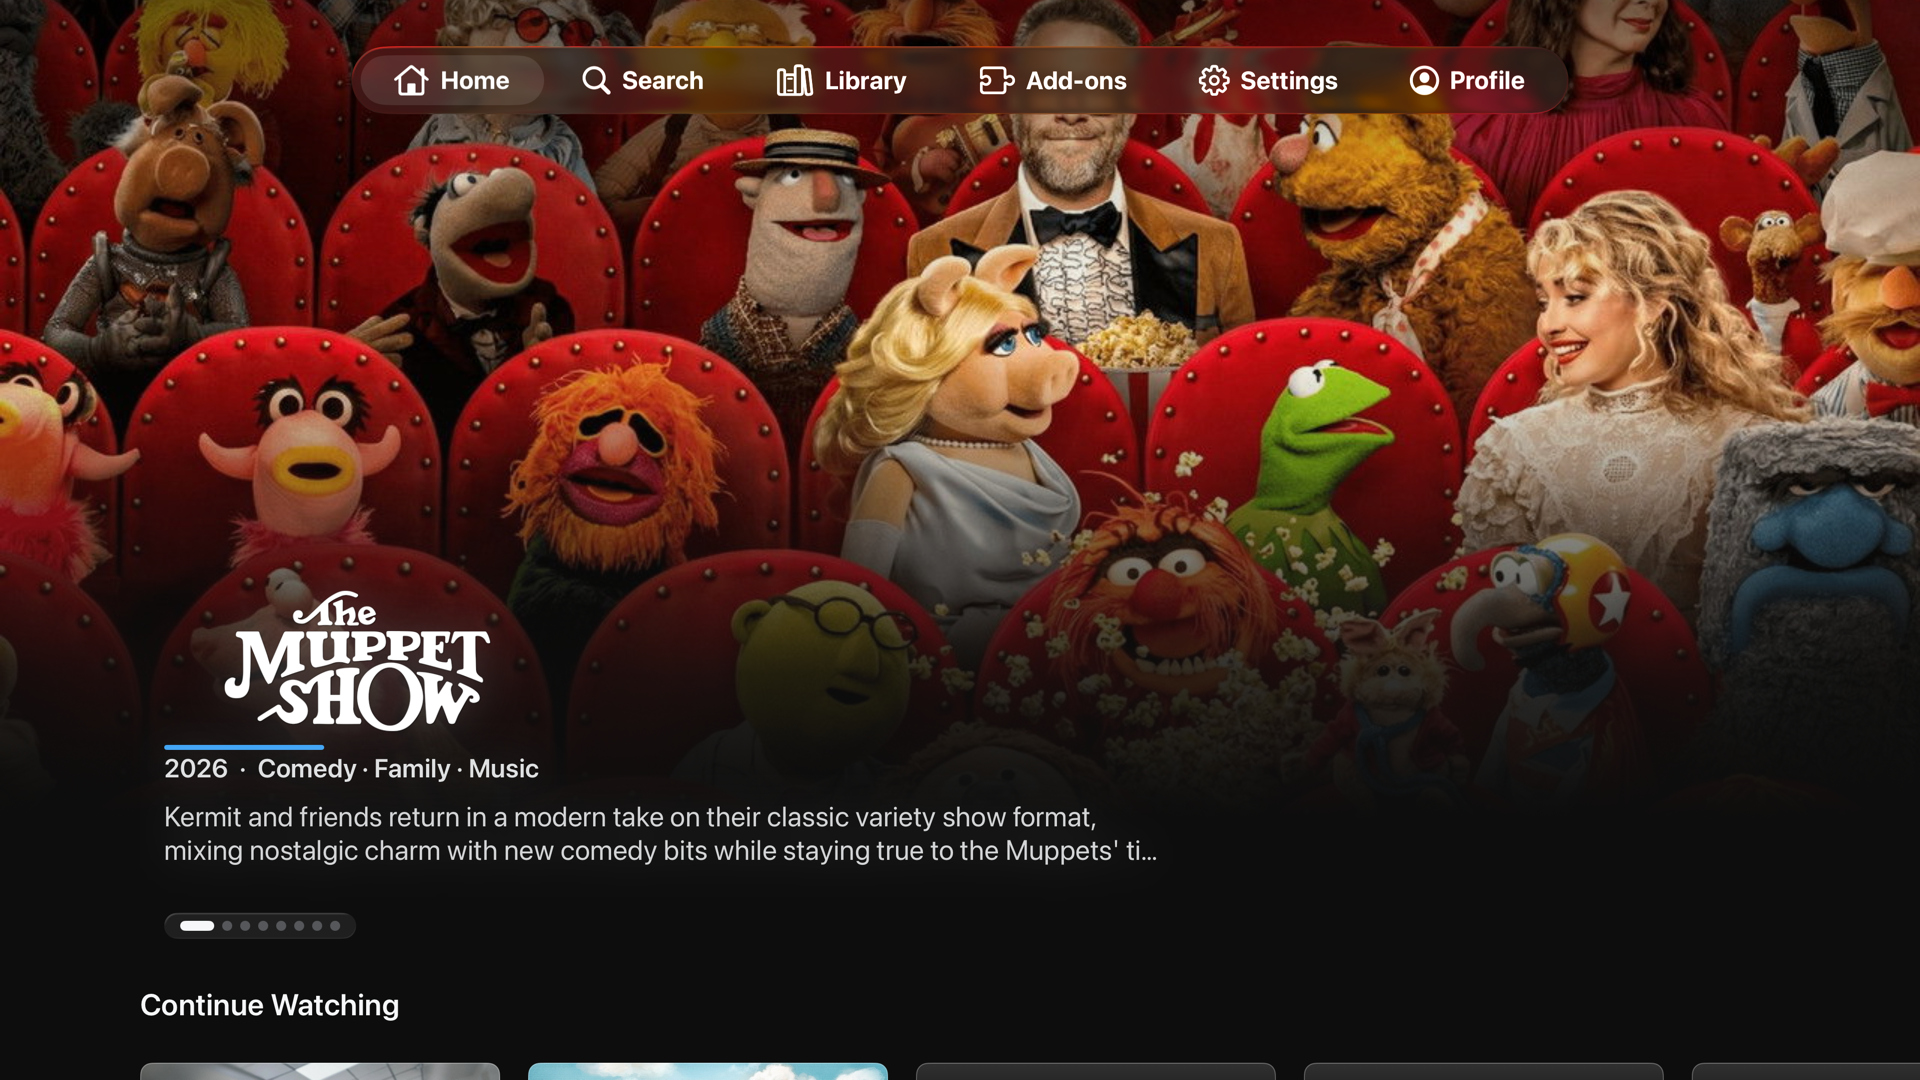
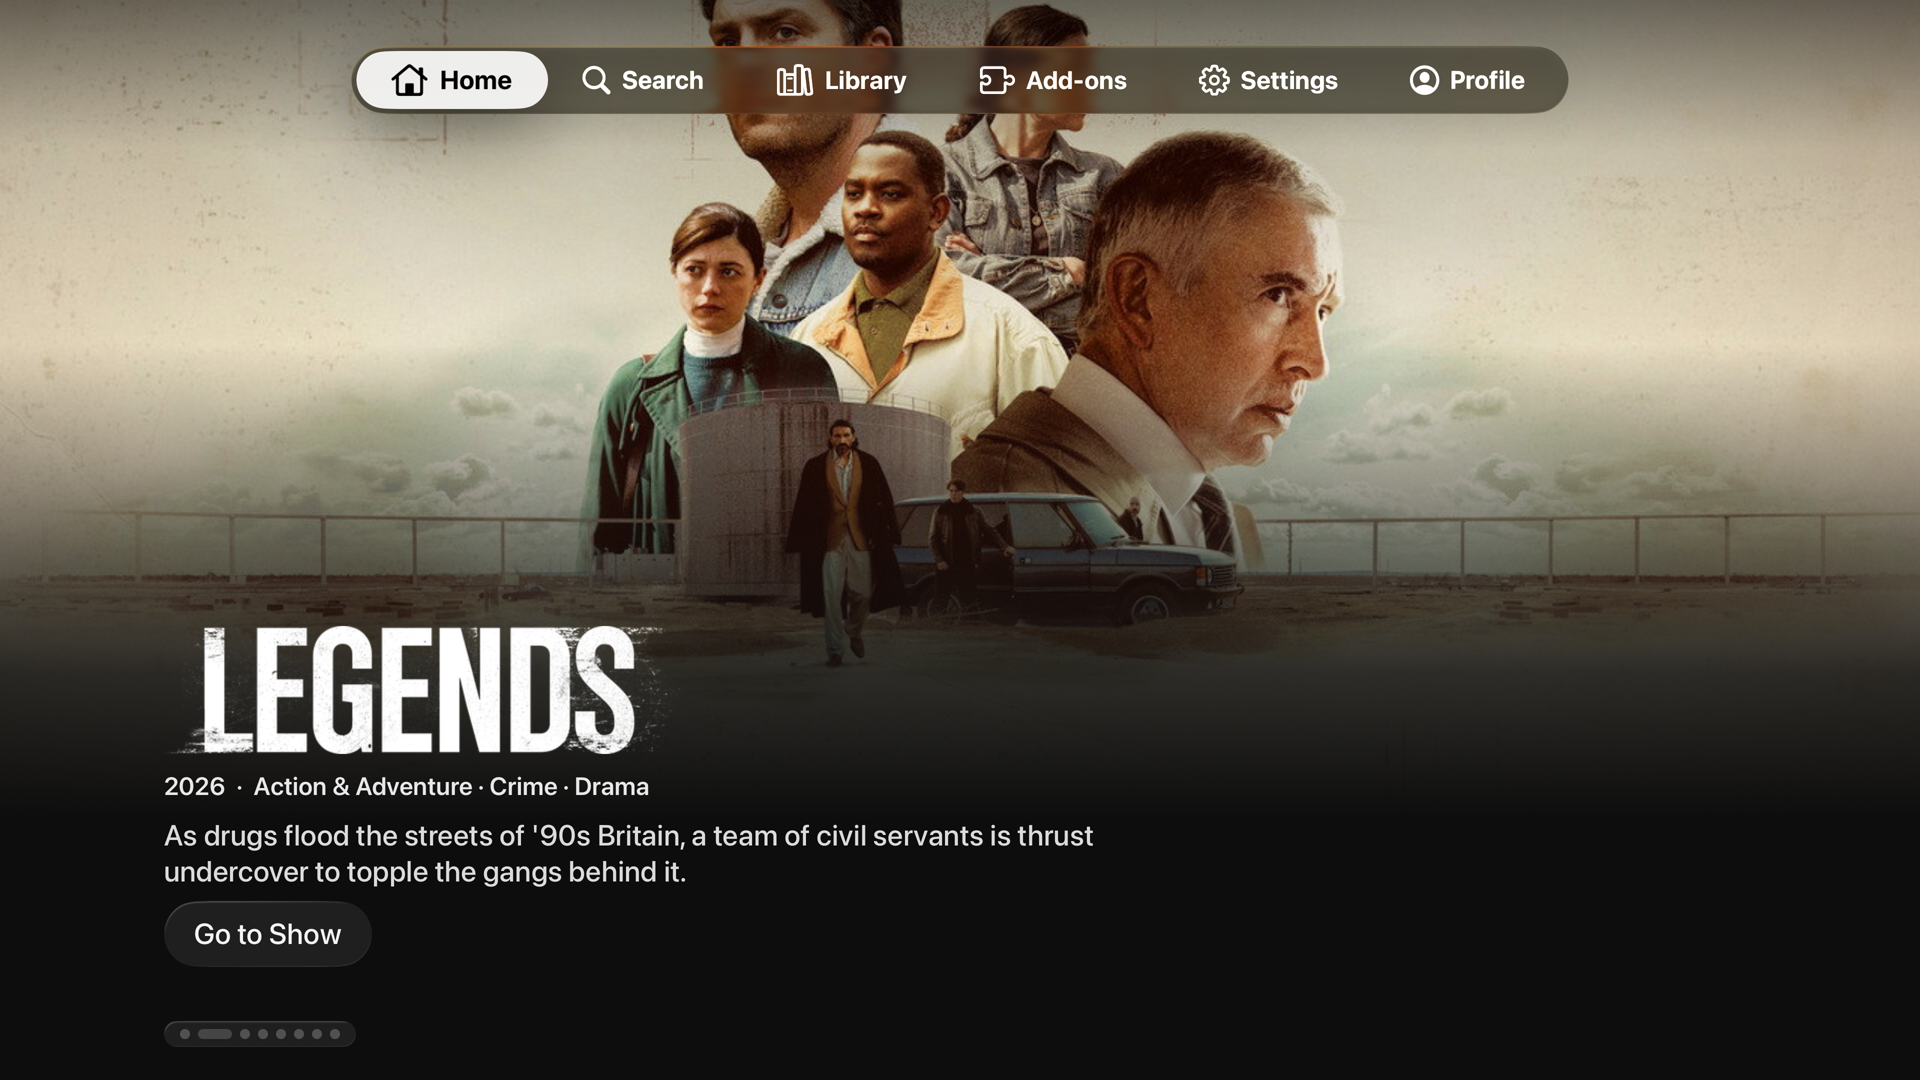
README: beta.8 feature refresh — native design pass, Nuvio-Style Hero + CTA, trailer fixes; 2 new screenshots + fresh home

diff --git a/README.md b/README.md
@@ -36,18 +36,20 @@ Rather than port the touch UI, this fork keeps only what travels well: the prove
 | ![Grouped stream picker](design/screenshots/streams.png) <br/> **Streams** — per-addon groups, debrid-cached & quality badges | ![Debrid settings](design/screenshots/debrid.png) <br/> **Debrid** — TorBox, Premiumize, Real-Debrid & AllDebrid |
 | ![Appearance settings](design/screenshots/appearance.png) <br/> **Appearance** — accent themes & poster styles, synced per profile | ![Localized UI](design/screenshots/localization.png) <br/> **Localized** — English, French, Spanish, German & Italian |
 | ![Localized hero](design/screenshots/hero-localized.png) <br/> **Localized hero** — title logos, synopsis & genres in your language via TMDB | ![Wide catalog rows](design/screenshots/landscape-rows.png) <br/> **Wide rows** — 16:9 cards with titles; the focused card lifts clear |
+| ![Nuvio-Style Hero](design/screenshots/hero-nuvio.png) <br/> **Nuvio-Style Hero** (opt-in) — info on the left, artwork blending in from the right | ![Trailers on Focus](design/screenshots/trailer-morph.png) <br/> **Trailers on Focus** — the poster widens in the row and plays the trailer |
 
 ## Features
 
 ### True 10-foot UI
 
+- **Native tvOS design language** — a full Human Interface Guidelines pass: Liquid Glass surfaces, system focus platters and lockups throughout, real Siri-Remote parallax on every card (posters track your thumb on the touch surface), and a reorganized multi-pane Settings.
 - **Native SwiftUI** built around the tvOS focus engine — poster cards scale, lift and tilt toward you on focus (portrait or wide 16:9 layouts, titles always clear), D-pad-first navigation throughout.
-- **Home hero carousel** with auto-advance, manual D-pad paging, title logo artwork, and an always-visible backdrop (or poster-only-on-focus, your choice) — with a TMDB key, hero titles, synopses and logos arrive in your language.
+- **Home hero carousel** with auto-advance, manual D-pad paging, title logo artwork, and a **Go to Movie / Go to Show** button — with a TMDB key, hero titles, synopses and logos arrive in your language. Prefer the look from Nuvio's modern home screen? Flip on **Nuvio-Style Hero** (Settings → Home Screen): title and description on the left, artwork blending in from the right.
 - **Floating pill navigation bar**, horizontal episode shelves, and watched-episode badges.
 - **Continue Watching** with a separate Upcoming row for not-yet-released next episodes.
 - **Appearance themes** — seven accent colors, poster size/corner styles, landscape rows, and title-label options, applied instantly and synced per profile.
-- **Full-screen trailers with sound** from the detail page — and auto-playing detail-page trailers with a poster backdrop layer (each with its own toggle).
-- **Trailers on Focus** (opt-in, Settings → Home Screen) — hold focus on a poster and it morphs into a wide card playing the trailer right in the row; play/pause toggles sound.
+- **Full-screen trailers with sound** from the detail page — now up to 1080p, and no more black screen with Match Content Frame Rate enabled. Auto-play, the background trailer, and the poster backdrop layer each have their own toggle.
+- **Trailers on Focus** (opt-in, Settings → Home Screen) — hold focus on a poster and it widens into a 16:9 card at the poster's own height, playing the trailer right in the row; play/pause toggles sound.
 - **Hero source picker & Home Rows controls** — choose which catalogs feed the hero carousel, reorder Home rows, and collection tiles play their focus GIFs.
 - **Auto-hiding tab bar** — slides away as you scroll into content, returns on scroll-up.
 - **Top Shelf extension** — your content surfaces directly on the Apple TV home screen (from-source builds only; the sideload IPA omits it because free-Apple-ID re-signing breaks extension signatures).
@@ -58,12 +60,12 @@ Rather than port the touch UI, this fork keeps only what travels well: the prove
 - Install **Stremio-compatible addons** for catalogs, metadata, streams, and subtitles.
 - An **on-device QuickJS runtime** executes addon logic natively — no external server.
 - Install addons in-app or from the web (`stremio://` links are picked up on account sync).
-- **Grouped stream picker** — sources collapse into per-addon groups with stream counts and per-group loading, so one slow addon never blocks the list.
+- **Grouped stream picker** — sources collapse into per-addon groups with stream counts and per-group loading, so one slow addon never blocks the list; the focused row expands to show the full release name.
 
 ### Playback
 
 - **Hybrid player** — a native AVPlayer path with on-device MKV remuxing: **Dolby Vision** (including Profile 7 → 8.1 conversion via libdovi), **TrueHD / DTS audio transcoding**, and full seek-anywhere support.
-- **libmpv player** (via MPVKit) for everything else, with HDR tone-mapping (`gpu-next`).
+- **libmpv player** (via MPVKit) for everything else, with HDR tone-mapping (`gpu-next`) — and the screensaver can no longer interrupt playback.
 - **External player handoff** — send any stream to **Infuse**, **VLC**, or **Outplayer**, per stream or via a Default Player setting.
 - **Addon subtitles in both players** (SRT → WebVTT renditions on the native path), with forced/audio-aware subtitle auto-selection and full subtitle styling (color, size, background, outline).
 - **Skip intro**, Play Next, next-episode autoplay, and a Stream Info panel (video/audio/subtitle state at a glance).
@@ -75,6 +77,7 @@ Rather than port the touch UI, this fork keeps only what travels well: the prove
 - **TMDB / MDBList / MyAnimeList** ratings and metadata, catalog-type and release-date display options — plus a **Metadata Language** picker (follow the Apple TV's language, or choose from 12).
 - **Profiles with PIN entry** and a QR-code sign-in flow — pair with your phone instead of typing credentials with the Siri Remote.
 - **Cloud library sync**, collections, and a sortable library with shelf and grid layouts.
+- **A settings slot of its own** — NuvioTV now syncs its settings under a dedicated namespace, so sharing an account with Nuvio on another TV platform can't flip options back and forth between the two apps.
 
 ## Requirements
 
